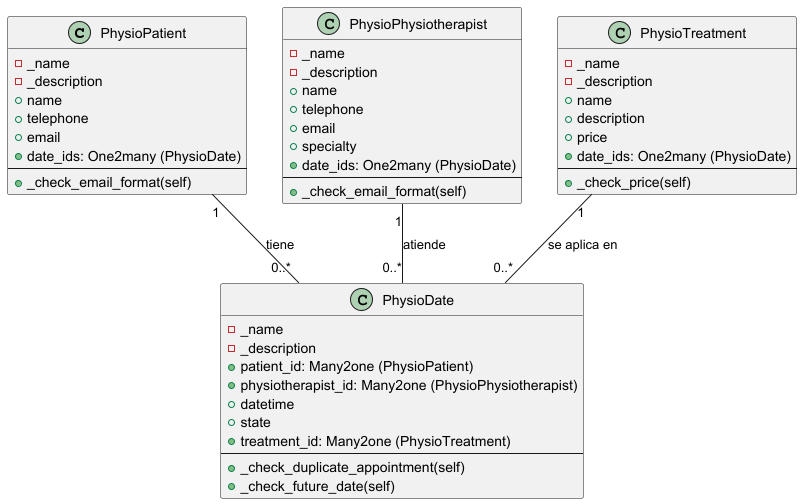
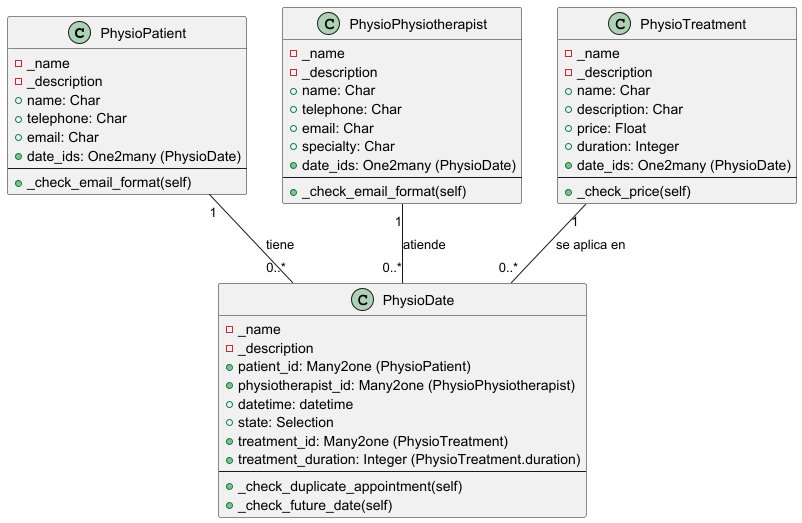
Nuevo campo en tratamientos: Agregado al README.md y a al diagrama

diff --git a/README.md b/README.md
@@ -42,7 +42,7 @@ Sigue estos pasos para instalar el módulo en tu instancia de Odoo:
 
 1. **Gestión de Citas**  
    - Accede al menú "Citas" para programar y gestionar las citas de los pacientes.
-   - Define el fisioterapeuta asignado, el tratamiento asignado, el paciente asignado, la fecha programada y el estado de la cita.
+   - Define el fisioterapeuta asignado, el tratamiento asignado, el paciente asignado, la fecha programada, duración y el estado de la cita.
 
 2. **Administración de Pacientes**  
    - Agrega, edita y visualiza información de pacientes dentro del módulo.
@@ -54,7 +54,7 @@ Sigue estos pasos para instalar el módulo en tu instancia de Odoo:
 
 4. **Gestión de Tratamientos**  
    - Crea y administra tratamientos para los pacientes.
-   - Define el nombre, descripción y precio.
+   - Define el nombre, descripción, precio y duración.
    - Se puede ver las citas asignadas a cada tratamiento.
 
 5. **Reportes en PDF**  
